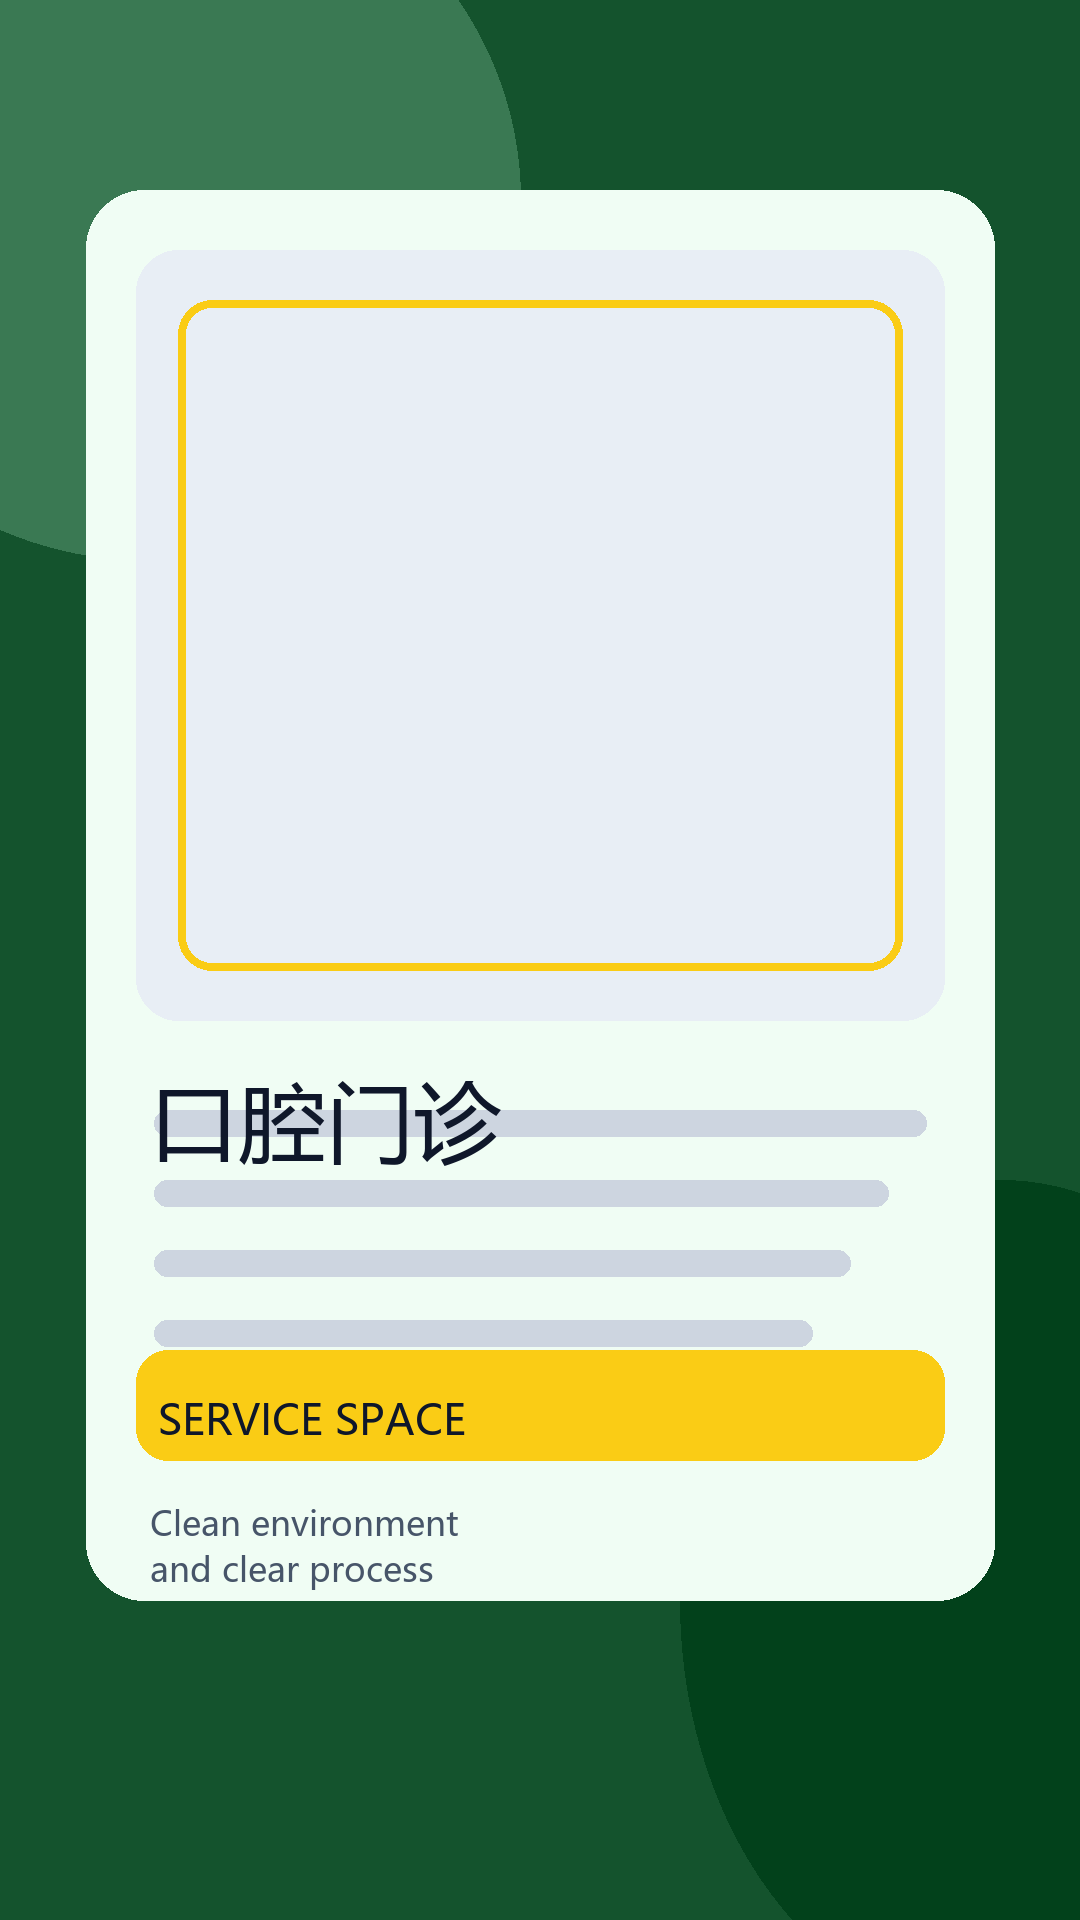
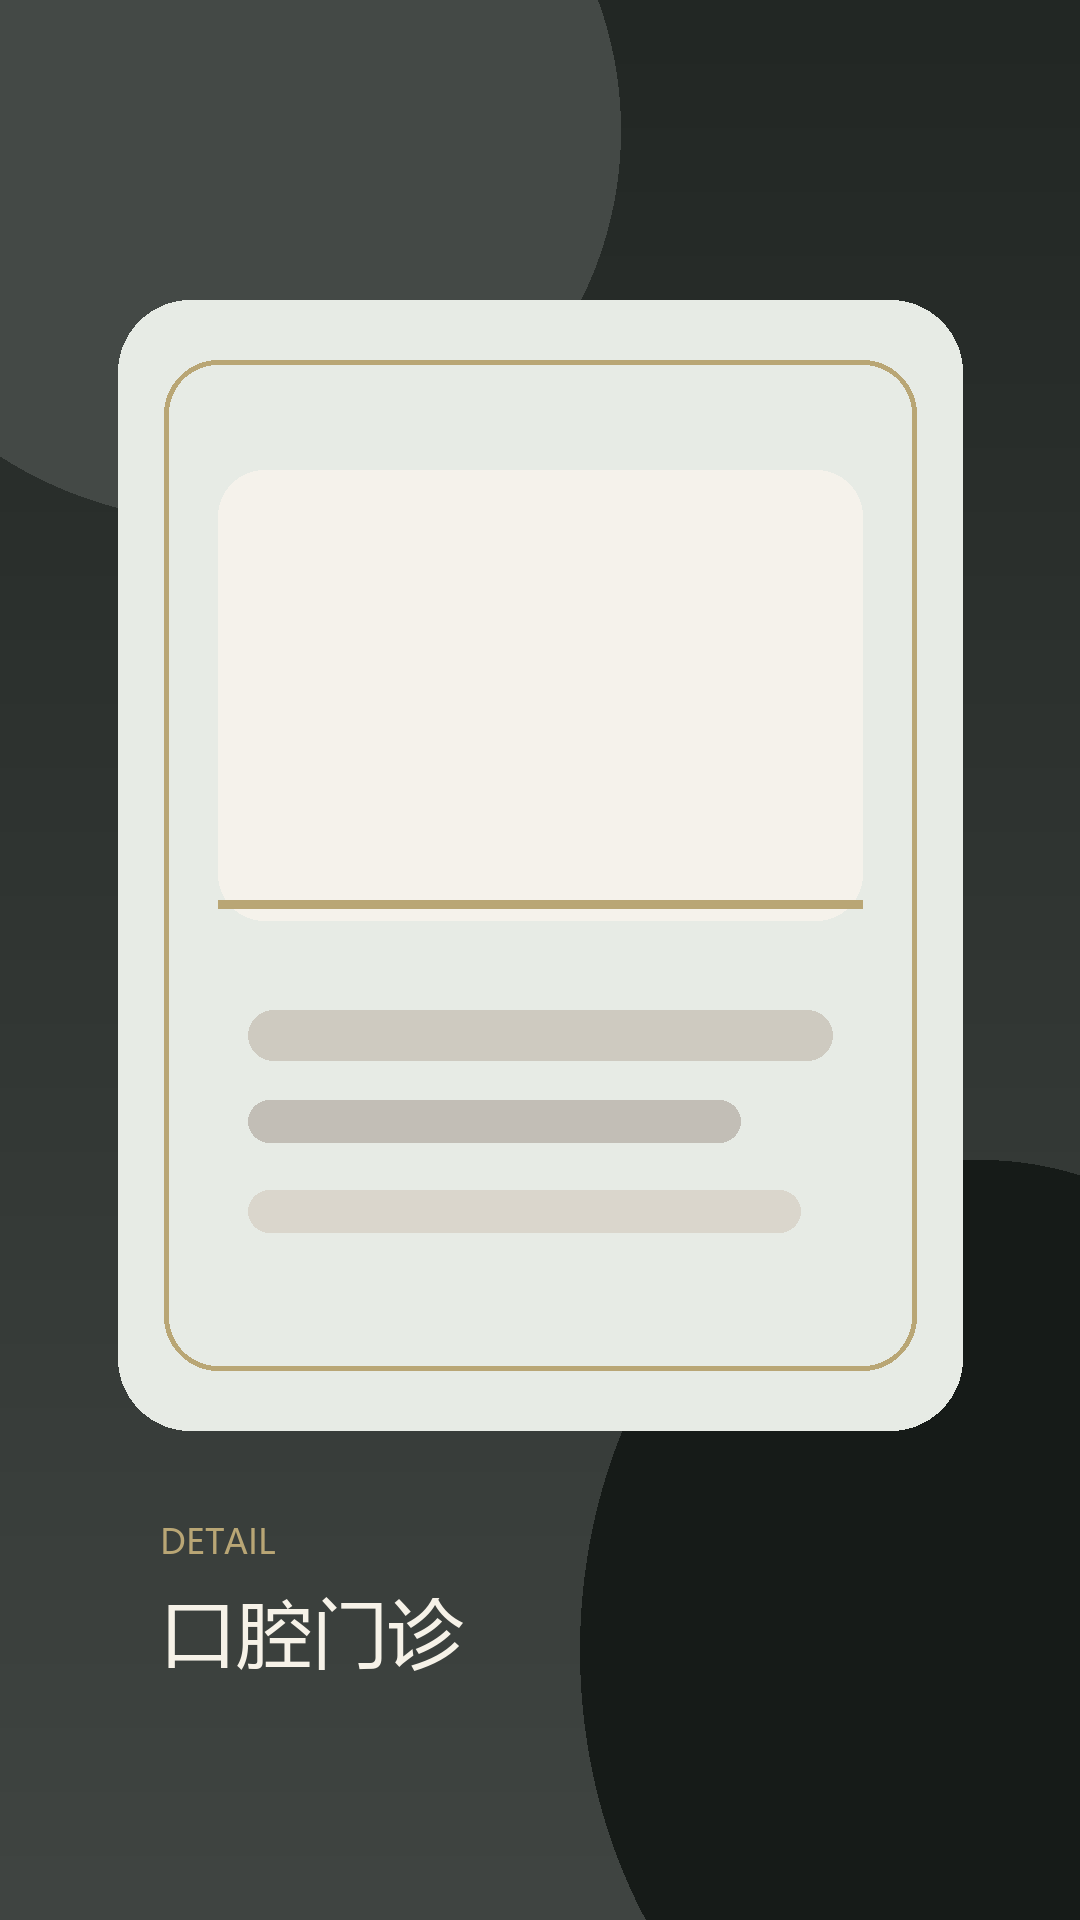
Add premium luxe visual style

diff --git a/output/preview.html b/output/preview.html
@@ -53,7 +53,7 @@
       min-width: 0;
       max-width: 300px;
       padding-left: 10px;
-      border-left: 4px solid #f8d66d;
+      border-left: 4px solid #d7bd7a;
       font-size: 13px;
       line-height: 1.12;
       font-weight: 700;
@@ -71,11 +71,11 @@
       right: 24px;
       top: 82px;
       z-index: 2;
-      font-size: 34px;
+      font-size: 26px;
       line-height: 1.12;
-      font-weight: 900;
+      font-weight: 800;
       letter-spacing: 0;
-      text-shadow: 0 4px 20px rgba(0,0,0,.58);
+      text-shadow: 0 3px 16px rgba(0,0,0,.50);
     }
     .captionPanel {
       position: absolute;
@@ -83,19 +83,19 @@
       right: 18px;
       bottom: 46px;
       z-index: 2;
-      padding: 18px 18px 17px;
+      padding: 16px 18px 16px;
       border-top: 1px solid rgba(255,255,255,.26);
       border-radius: 0;
-      background: linear-gradient(180deg, rgba(8,13,20,.88), rgba(7,12,20,.64));
+      background: linear-gradient(180deg, rgba(7,8,10,.78), rgba(18,19,22,.50));
       box-shadow: 0 -18px 56px rgba(0,0,0,.25);
     }
     .caption {
-      font-size: 27px;
+      font-size: 21px;
       line-height: 1.22;
-      font-weight: 900;
+      font-weight: 700;
       letter-spacing: 0;
       text-wrap: balance;
-      text-shadow: 0 2px 8px rgba(0,0,0,.32);
+      text-shadow: 0 2px 10px rgba(0,0,0,.42);
     }
     .meta {
       display: none;
@@ -137,7 +137,7 @@
     <div class="progressRail"><div class="progress" id="progress"></div></div>
   </div>
   <script>
-    window.VIDEO_PAYLOAD = {"plan": {"shop_name": "星河口腔", "industry": "口腔门诊", "topic": "第一次洗牙前要知道什么", "platform": "generic", "aspect_ratio": "9:16", "visual_style": "clean_clinic", "duration_seconds": 24, "cover_text": "第一次洗牙前要知道什么", "titles": ["本地社区想了解第一次洗牙前要知道什么，先看这条", "第一次来星河口腔前，可以先看这几点", "第一次洗牙前要知道什么别急着决定，先把流程问清楚", "给第一次了解口腔门诊的人一点参考", "星河口腔服务流程简单介绍"], "post_copy": "第一次洗牙前要知道什么简单整理了一版，适合第一次了解的朋友先做参考。具体情况建议结合自身需求，到正规机构当面咨询。", "scenes": [{"order": 1, "start": 0, "duration": 8, "asset": "demo_1.png", "asset_type": "门店/封面图", "caption": "本地社区想了解第一次洗牙前要知道什么，可以先看这几个点。", "voiceover": "本地社区想了解第一次洗牙前要知道什么，可以先看这几个点。", "effect": "slow_zoom_in"}, {"order": 2, "start": 8, "duration": 8, "asset": "demo_2.png", "asset_type": "环境/服务图", "caption": "到星河口腔前，建议先了解环境、流程和沟通方式。", "voiceover": "到星河口腔前，建议先了解环境、流程和沟通方式。", "effect": "pan_up"}, {"order": 3, "start": 16, "duration": 8, "asset": "demo_3.png", "asset_type": "核心卖点图", "caption": "这里重点是：洗牙前会先做基础检查和流程沟通。", "voiceover": "这里重点是：洗牙前会先做基础检查和流程沟通。", "effect": "cut"}], "subtitle_style": "white_text_with_dark_shadow", "bgm_style": "clean_light"}, "scenes": [{"order": 1, "start": 0, "duration": 8, "asset": "demo_1.png", "asset_type": "门店/封面图", "caption": "本地社区想了解第一次洗牙前要知道什么，可以先看这几个点。", "voiceover": "本地社区想了解第一次洗牙前要知道什么，可以先看这几个点。", "effect": "slow_zoom_in", "asset_file": "image_1.png"}, {"order": 2, "start": 8, "duration": 8, "asset": "demo_2.png", "asset_type": "环境/服务图", "caption": "到星河口腔前，建议先了解环境、流程和沟通方式。", "voiceover": "到星河口腔前，建议先了解环境、流程和沟通方式。", "effect": "pan_up", "asset_file": "image_2.png"}, {"order": 3, "start": 16, "duration": 8, "asset": "demo_3.png", "asset_type": "核心卖点图", "caption": "这里重点是：洗牙前会先做基础检查和流程沟通。", "voiceover": "这里重点是：洗牙前会先做基础检查和流程沟通。", "effect": "cut", "asset_file": "image_3.png"}]};
+    window.VIDEO_PAYLOAD = {"plan": {"shop_name": "星河口腔", "industry": "口腔门诊", "topic": "第一次洗牙前要知道什么", "platform": "generic", "aspect_ratio": "9:16", "visual_style": "premium_luxe", "duration_seconds": 24, "cover_text": "第一次洗牙前要知道什么", "titles": ["本地社区想了解第一次洗牙前要知道什么，先看这条", "第一次来星河口腔前，可以先看这几点", "第一次洗牙前要知道什么别急着决定，先把流程问清楚", "给第一次了解口腔门诊的人一点参考", "星河口腔服务流程简单介绍"], "post_copy": "第一次洗牙前要知道什么简单整理了一版，适合第一次了解的朋友先做参考。具体情况建议结合自身需求，到正规机构当面咨询。", "scenes": [{"order": 1, "start": 0, "duration": 8, "asset": "demo_1.png", "asset_type": "门店/封面图", "caption": "本地社区想了解第一次洗牙前要知道什么，可以先看这几个点。", "voiceover": "本地社区想了解第一次洗牙前要知道什么，可以先看这几个点。", "effect": "slow_zoom_in"}, {"order": 2, "start": 8, "duration": 8, "asset": "demo_2.png", "asset_type": "环境/服务图", "caption": "到星河口腔前，建议先了解环境、流程和沟通方式。", "voiceover": "到星河口腔前，建议先了解环境、流程和沟通方式。", "effect": "pan_up"}, {"order": 3, "start": 16, "duration": 8, "asset": "demo_3.png", "asset_type": "核心卖点图", "caption": "这里重点是：洗牙前会先做基础检查和流程沟通。", "voiceover": "这里重点是：洗牙前会先做基础检查和流程沟通。", "effect": "cut"}], "subtitle_style": "white_text_with_dark_shadow", "bgm_style": "clean_light"}, "scenes": [{"order": 1, "start": 0, "duration": 8, "asset": "demo_1.png", "asset_type": "门店/封面图", "caption": "本地社区想了解第一次洗牙前要知道什么，可以先看这几个点。", "voiceover": "本地社区想了解第一次洗牙前要知道什么，可以先看这几个点。", "effect": "slow_zoom_in", "asset_file": "image_1.png"}, {"order": 2, "start": 8, "duration": 8, "asset": "demo_2.png", "asset_type": "环境/服务图", "caption": "到星河口腔前，建议先了解环境、流程和沟通方式。", "voiceover": "到星河口腔前，建议先了解环境、流程和沟通方式。", "effect": "pan_up", "asset_file": "image_2.png"}, {"order": 3, "start": 16, "duration": 8, "asset": "demo_3.png", "asset_type": "核心卖点图", "caption": "这里重点是：洗牙前会先做基础检查和流程沟通。", "voiceover": "这里重点是：洗牙前会先做基础检查和流程沟通。", "effect": "cut", "asset_file": "image_3.png"}]};
   </script>
   <script>
     const payload = window.VIDEO_PAYLOAD;

diff --git a/run_workflow.py b/run_workflow.py
@@ -38,6 +38,12 @@ ASPECT_RATIOS = {
 }
 
 VISUAL_STYLES = {
+    "premium_luxe": {
+        "accent": "#d7bd7a",
+        "shadow": "rgba(7,8,10,.78)",
+        "overlay": "rgba(18,19,22,.50)",
+        "text": "#fbfaf7",
+    },
     "clean_clinic": {
         "accent": "#f8d66d",
         "shadow": "rgba(8,13,20,.88)",
@@ -81,7 +87,7 @@ def validate_config(config: dict) -> None:
     aspect_ratio = str(config.get("aspect_ratio", "9:16"))
     if aspect_ratio not in ASPECT_RATIOS:
         raise ValueError(f"aspect_ratio should be one of: {', '.join(ASPECT_RATIOS)}")
-    visual_style = str(config.get("visual_style", "clean_clinic"))
+    visual_style = str(config.get("visual_style", "premium_luxe"))
     if visual_style not in VISUAL_STYLES:
         raise ValueError(f"visual_style should be one of: {', '.join(VISUAL_STYLES)}")
 
@@ -92,8 +98,8 @@ def get_canvas_size(plan_or_config: dict) -> tuple[int, int]:
 
 
 def get_visual_style(plan_or_config: dict) -> dict:
-    visual_style = str(plan_or_config.get("visual_style", "clean_clinic"))
-    return VISUAL_STYLES.get(visual_style, VISUAL_STYLES["clean_clinic"])
+    visual_style = str(plan_or_config.get("visual_style", "premium_luxe"))
+    return VISUAL_STYLES.get(visual_style, VISUAL_STYLES["premium_luxe"])
 
 
 def get_layout(width: int, height: int) -> dict:
@@ -102,9 +108,9 @@ def get_layout(width: int, height: int) -> dict:
             "brand_top": 22,
             "brand_left": 28,
             "title_top": 62,
-            "title_font": 30,
+            "title_font": 24,
             "caption_bottom": 24,
-            "caption_font": 24,
+            "caption_font": 19,
             "caption_width": width - 56,
         }
     if width == height:
@@ -112,18 +118,18 @@ def get_layout(width: int, height: int) -> dict:
             "brand_top": 24,
             "brand_left": 24,
             "title_top": 74,
-            "title_font": 31,
+            "title_font": 25,
             "caption_bottom": 34,
-            "caption_font": 25,
+            "caption_font": 20,
             "caption_width": width - 48,
         }
     return {
         "brand_top": 26,
         "brand_left": 24,
         "title_top": 82,
-        "title_font": 34,
+        "title_font": 26,
         "caption_bottom": 46,
-        "caption_font": 27,
+        "caption_font": 21,
         "caption_width": width - 45,
     }
 
@@ -238,7 +244,7 @@ def generate_plan(config: dict, image_paths: list[Path]) -> dict:
         "topic": topic,
         "platform": config.get("platform", "douyin"),
         "aspect_ratio": config.get("aspect_ratio", "9:16"),
-        "visual_style": config.get("visual_style", "clean_clinic"),
+        "visual_style": config.get("visual_style", "premium_luxe"),
         "duration_seconds": sum(durations),
         "cover_text": make_cover_text(topic),
         "titles": make_titles(config),
@@ -429,9 +435,9 @@ def write_html(plan: dict, assets: list[dict]) -> None:
       z-index: 2;
       font-size: {layout["title_font"]}px;
       line-height: 1.12;
-      font-weight: 900;
+      font-weight: 800;
       letter-spacing: 0;
-      text-shadow: 0 4px 20px rgba(0,0,0,.58);
+      text-shadow: 0 3px 16px rgba(0,0,0,.50);
     }}
     .captionPanel {{
       position: absolute;
@@ -439,7 +445,7 @@ def write_html(plan: dict, assets: list[dict]) -> None:
       right: 18px;
       bottom: {layout["caption_bottom"]}px;
       z-index: 2;
-      padding: 18px 18px 17px;
+      padding: 16px 18px 16px;
       border-top: 1px solid rgba(255,255,255,.26);
       border-radius: 0;
       background: linear-gradient(180deg, {style["shadow"]}, {style["overlay"]});
@@ -448,10 +454,10 @@ def write_html(plan: dict, assets: list[dict]) -> None:
     .caption {{
       font-size: {layout["caption_font"]}px;
       line-height: 1.22;
-      font-weight: 900;
+      font-weight: 700;
       letter-spacing: 0;
       text-wrap: balance;
-      text-shadow: 0 2px 8px rgba(0,0,0,.32);
+      text-shadow: 0 2px 10px rgba(0,0,0,.42);
     }}
     .meta {{
       display: none;
@@ -697,41 +703,42 @@ def hex_to_rgb(value: str) -> tuple[int, int, int]:
 
 def make_placeholder_images(config: dict, count: int = 3) -> list[Path]:
     IMAGE_DIR.mkdir(parents=True, exist_ok=True)
-    cards = [
-        ("SHOP FRONT", config.get("shop_name", "Local Shop"), "First impression and location"),
-        ("SERVICE SPACE", config.get("industry", "Local Service"), "Clean environment and clear process"),
-        ("WHY VISIT", config.get("main_offer", "Core offer"), "Key message for first-time visitors"),
+    scenes = [
+        ("RECEPTION", config.get("shop_name", "Local Studio")),
+        ("DETAIL", config.get("industry", "Service Space")),
+        ("PROCESS", config.get("main_offer", "Clear Process")),
     ]
     palettes = [
-        ((17, 24, 39), (56, 189, 248), (248, 250, 252)),
-        ((20, 83, 45), (250, 204, 21), (240, 253, 244)),
-        ((88, 28, 135), (45, 212, 191), (250, 245, 255)),
+        ((21, 22, 24), (214, 189, 122), (238, 234, 224)),
+        ((34, 39, 36), (185, 166, 117), (231, 235, 229)),
+        ((28, 28, 33), (199, 177, 128), (236, 232, 222)),
     ]
     out = []
     for idx in range(count):
         path = IMAGE_DIR / f"demo_{idx + 1}.png"
-        bg, accent, panel = palettes[idx % len(palettes)]
-        label, title, subtitle = cards[idx % len(cards)]
+        bg, accent, surface = palettes[idx % len(palettes)]
+        label, title = scenes[idx % len(scenes)]
         img = Image.new("RGB", (1080, 1920), color=bg)
         draw = ImageDraw.Draw(img)
-        font_label = font_for_size(42)
-        font_title = font_for_size(88)
-        font_subtitle = font_for_size(48)
-        font_small = font_for_size(34)
+        font_label = font_for_size(34)
+        font_title = font_for_size(76)
 
-        draw.rectangle((0, 0, 1080, 1920), fill=bg)
-        draw.ellipse((-220, -160, 520, 560), fill=tuple(min(255, c + 38) for c in bg))
-        draw.ellipse((680, 1180, 1320, 2020), fill=tuple(max(0, c - 18) for c in bg))
-        draw.rounded_rectangle((86, 190, 994, 1600), radius=58, fill=panel)
-        draw.rounded_rectangle((136, 250, 944, 1020), radius=42, fill=(232, 238, 245))
-        draw.rounded_rectangle((178, 300, 902, 970), radius=34, outline=accent, width=8)
-        for line in range(5):
-            y = 1110 + line * 70
-            draw.rounded_rectangle((154, y, 926 - line * 38, y + 26), radius=13, fill=(205, 213, 224))
-        draw.rounded_rectangle((136, 1350, 944, 1460), radius=32, fill=accent)
-        draw.text((158, 1390), label, fill=(15, 23, 42), font=font_label)
-        draw.text((150, 1060), wrap_text(title, 10), fill=(15, 23, 42), font=font_title, spacing=20)
-        draw.text((150, 1500), wrap_text(subtitle, 18), fill=(71, 85, 105), font=font_small, spacing=10)
+        for y in range(1920):
+            shade = int(30 * (y / 1920))
+            color = tuple(min(255, c + shade) for c in bg)
+            draw.line((0, y, 1080, y), fill=color)
+
+        draw.ellipse((-180, -260, 620, 520), fill=tuple(min(255, c + 34) for c in bg))
+        draw.ellipse((580, 1160, 1380, 2140), fill=tuple(max(0, c - 12) for c in bg))
+        draw.rounded_rectangle((118, 300, 962, 1430), radius=72, fill=surface)
+        draw.rounded_rectangle((164, 360, 916, 1370), radius=54, outline=accent, width=5)
+        draw.rounded_rectangle((218, 470, 862, 920), radius=46, fill=(245, 242, 235))
+        draw.rectangle((218, 900, 862, 908), fill=accent)
+        draw.rounded_rectangle((248, 1010, 832, 1060), radius=25, fill=(206, 202, 192))
+        draw.rounded_rectangle((248, 1100, 740, 1142), radius=21, fill=(194, 190, 182))
+        draw.rounded_rectangle((248, 1190, 800, 1232), radius=21, fill=(218, 214, 204))
+        draw.text((160, 1518), label, fill=accent, font=font_label)
+        draw.text((160, 1580), wrap_text(title, 10), fill=(246, 242, 232), font=font_title, spacing=18)
         img.save(path)
         out.append(path)
     return out
@@ -770,10 +777,10 @@ def render_gif_preview(plan: dict, assets: list[dict]) -> None:
 
         overlay = Image.new("RGBA", (width, height), (0, 0, 0, 0))
         odraw = ImageDraw.Draw(overlay)
-        odraw.rectangle((0, 0, width, int(height * 0.24)), fill=(7, 12, 20, 118))
-        odraw.rectangle((0, int(height * 0.58), width, height), fill=(7, 12, 20, 178))
-        odraw.ellipse((-60, -80, int(width * 0.55), int(height * 0.28)), fill=(*accent, 34))
-        odraw.ellipse((int(width * 0.70), int(height * 0.66), width + 110, height + 110), fill=(52, 211, 153, 24))
+        odraw.rectangle((0, 0, width, int(height * 0.26)), fill=(7, 8, 10, 112))
+        odraw.rectangle((0, int(height * 0.60), width, height), fill=(7, 8, 10, 188))
+        odraw.ellipse((-70, -90, int(width * 0.56), int(height * 0.28)), fill=(*accent, 24))
+        odraw.ellipse((int(width * 0.70), int(height * 0.67), width + 120, height + 120), fill=(255, 255, 255, 18))
         base = Image.alpha_composite(base.convert("RGBA"), overlay).convert("RGB")
         draw = ImageDraw.Draw(base)
 
@@ -791,19 +798,19 @@ def render_gif_preview(plan: dict, assets: list[dict]) -> None:
             fill=(255, 255, 255),
             font=font_title,
             spacing=6,
-            stroke_width=3,
+            stroke_width=1,
             stroke_fill=(8, 13, 20),
         )
         caption_x = layout["brand_left"]
         caption_y = height - layout["caption_bottom"] - 128
-        draw.rectangle((caption_x, caption_y - 18, width - layout["brand_left"], caption_y - 14), fill=accent)
+        draw.rectangle((caption_x, caption_y - 22, width - layout["brand_left"], caption_y - 19), fill=accent)
         draw.multiline_text(
             (caption_x, caption_y),
             wrap_by_pixel(scene["caption"], font_caption, layout["caption_width"]),
             fill=(255, 255, 255),
             font=font_caption,
             spacing=8,
-            stroke_width=2,
+            stroke_width=0,
             stroke_fill=(8, 13, 20),
         )
         frames.append(base)

diff --git a/README.md b/README.md
@@ -91,13 +91,13 @@ You can adjust the output canvas and style in `config.json`:
 ```json
 {
   "aspect_ratio": "9:16",
-  "visual_style": "clean_clinic"
+  "visual_style": "premium_luxe"
 }
 ```
 
 Supported aspect ratios: `9:16`, `16:9`, `1:1`.
 
-Supported visual styles: `clean_clinic`, `warm_local`, `bold_product`.
+Supported visual styles: `premium_luxe`, `clean_clinic`, `warm_local`, `bold_product`.
 
 ## Outputs
 

diff --git a/docs/STYLE_CONTROLS.md b/docs/STYLE_CONTROLS.md
@@ -28,12 +28,13 @@ Supported values:
 
 ```json
 {
-  "visual_style": "clean_clinic"
+  "visual_style": "premium_luxe"
 }
 ```
 
 Options:
 
+- `premium_luxe`: refined, restrained, high-end visual direction
 - `clean_clinic`: restrained, professional, suitable for clinic and service businesses
 - `warm_local`: warmer local-business feel
 - `bold_product`: stronger contrast, suitable for product/service promotion
